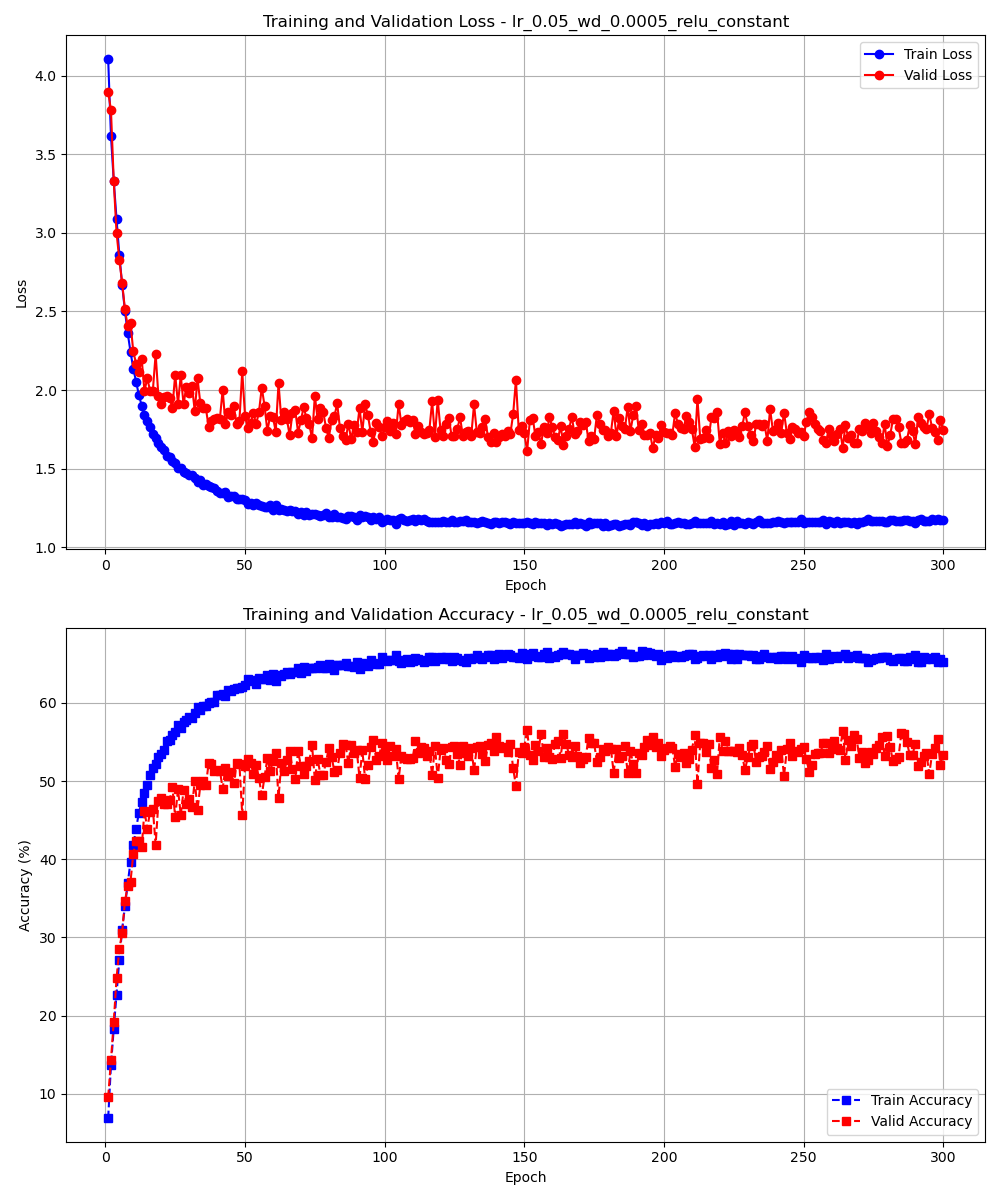
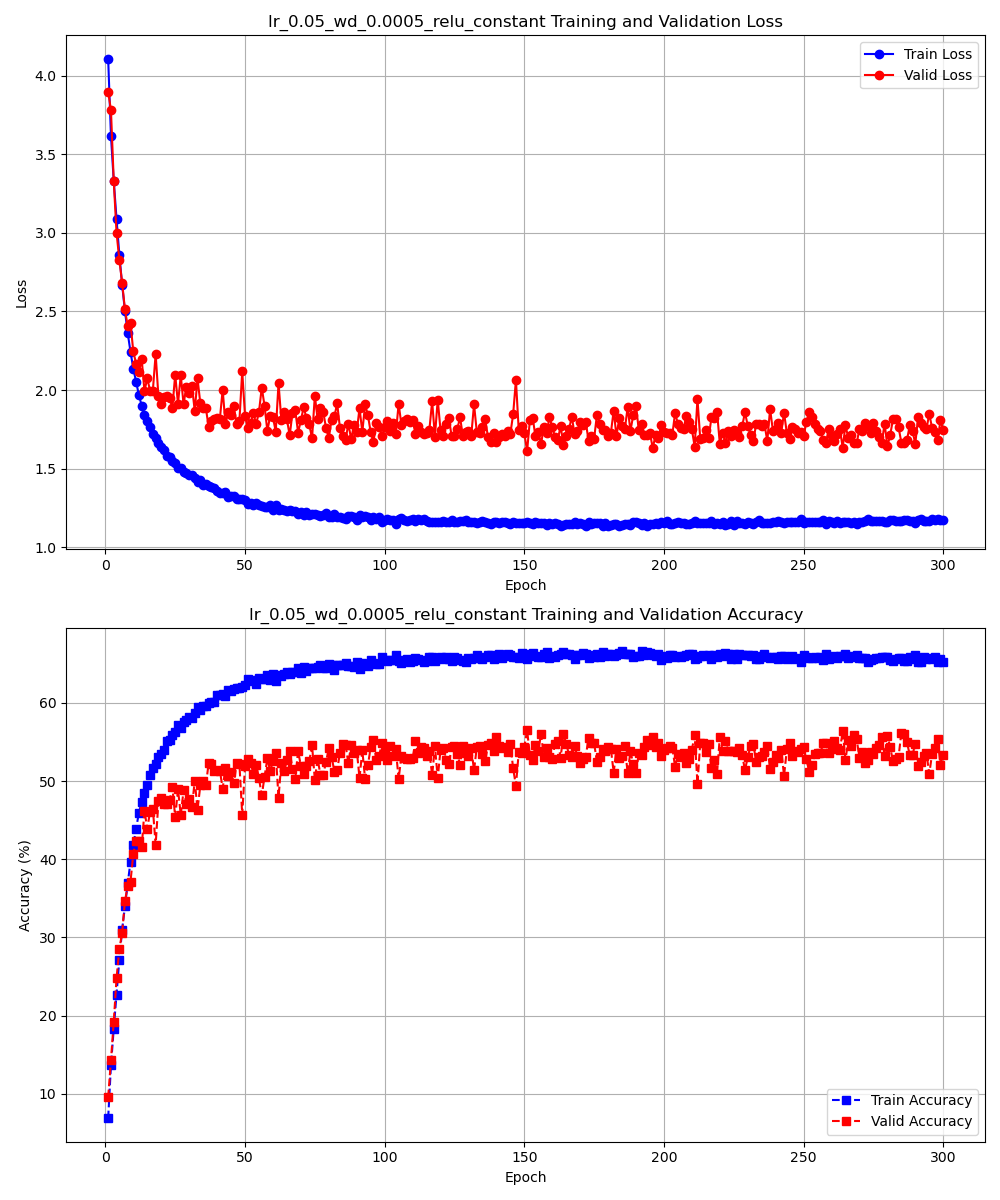
add combined graph

Changed region(s): [[0.248, 0.4933, 0.806, 0.5242], [0.279, 0.0, 0.775, 0.0308]]

diff --git a/draw.py b/draw.py
@@ -2,11 +2,15 @@ import os
 import pandas as pd
 import matplotlib.pyplot as plt
 
-# Specify the base directory where the 'output' folder is located
-base_directory = 'G:/Projects/PycharmProjects/condaProject/output'
+# Specify the relative paths from the script's location
+source_directory = 'output'
+
+# Ensure the current directory is the project root (where the script is located)
+project_root = os.path.dirname(os.path.abspath(__file__))  # Gets the directory where the script is located
+source_path = os.path.join(project_root, source_directory)
 
 # Iterate through each subdirectory in the 'output' folder
-for subdir, dirs, files in os.walk(base_directory):
+for subdir, dirs, files in os.walk(source_path):
     folder_name = os.path.basename(subdir)  # Extract the folder name
     for file in files:
         # Check if the file is a CSV file
@@ -16,13 +20,13 @@ for subdir, dirs, files in os.walk(base_directory):
             # Load the CSV data
             data = pd.read_csv(filepath)
 
-            # Create the combined graph with both metrics
+            # Create the combined graph with both metrics in two separate plots
             fig, (ax1, ax2) = plt.subplots(nrows=2, ncols=1, figsize=(10, 12))
             ax1.plot(data['Epoch'], data['Train Loss'], label='Train Loss', marker='o', color='blue')
             ax1.plot(data['Epoch'], data['Valid Loss'], label='Valid Loss', marker='o', color='red')
             ax1.set_xlabel('Epoch')
             ax1.set_ylabel('Loss')
-            ax1.set_title(f'Training and Validation Loss - {folder_name}')
+            ax1.set_title(f'{folder_name} Training and Validation Loss')
             ax1.legend(loc='upper right')
             ax1.grid(True)
 
@@ -32,7 +36,7 @@ for subdir, dirs, files in os.walk(base_directory):
                      color='red')
             ax2.set_xlabel('Epoch')
             ax2.set_ylabel('Accuracy (%)')
-            ax2.set_title(f'Training and Validation Accuracy - {folder_name}')
+            ax2.set_title(f'{folder_name} Training and Validation Accuracy')
             ax2.legend(loc='lower right')
             ax2.grid(True)
             combined_filename = os.path.join(subdir, f'{folder_name}_graph.png')
@@ -40,30 +44,24 @@ for subdir, dirs, files in os.walk(base_directory):
             plt.savefig(combined_filename)
             plt.close()
 
-            # Create and save the Loss plot separately
-            plt.figure(figsize=(10, 6))
-            plt.plot(data['Epoch'], data['Train Loss'], label='Train Loss', marker='o', color='blue')
-            plt.plot(data['Epoch'], data['Valid Loss'], label='Valid Loss', marker='o', color='red')
-            plt.xlabel('Epoch')
-            plt.ylabel('Loss')
-            plt.title(f'Training and Validation Loss - {folder_name}')
-            plt.legend(loc='upper right')
-            plt.grid(True)
-            loss_filename = os.path.join(subdir, f'{folder_name}_loss_graph.png')
-            plt.savefig(loss_filename)
-            plt.close()
+            # Create the single combined graph for both loss and accuracy
+            fig, ax = plt.subplots(figsize=(10, 6))
+            ax.plot(data['Epoch'], data['Train Loss'], label='Train Loss', color='blue', marker='o')
+            ax.plot(data['Epoch'], data['Valid Loss'], label='Valid Loss', color='red', marker='o')
+            ax.set_xlabel('Epoch')
+            ax.set_ylabel('Loss', color='blue')
+            ax.tick_params(axis='y', labelcolor='blue')
 
-            # Create and save the Accuracy plot separately
-            plt.figure(figsize=(10, 6))
-            plt.plot(data['Epoch'], data['Train Accuracy'], label='Train Accuracy', marker='s', linestyle='--',
-                     color='blue')
-            plt.plot(data['Epoch'], data['Valid Accuracy'], label='Valid Accuracy', marker='s', linestyle='--',
-                     color='red')
-            plt.xlabel('Epoch')
-            plt.ylabel('Accuracy (%)')
-            plt.title(f'Training and Validation Accuracy - {folder_name}')
-            plt.legend(loc='lower right')
-            plt.grid(True)
-            accuracy_filename = os.path.join(subdir, f'{folder_name}_accuracy_graph.png')
-            plt.savefig(accuracy_filename)
+            ax2 = ax.twinx()
+            ax2.plot(data['Epoch'], data['Train Accuracy'], label='Train Accuracy', color='green', linestyle='--',
+                     marker='s')
+            ax2.plot(data['Epoch'], data['Valid Accuracy'], label='Valid Accuracy', color='purple', linestyle='--',
+                     marker='s')
+            ax2.set_ylabel('Accuracy (%)', color='green')
+            ax2.tick_params(axis='y', labelcolor='green')
+
+            plt.title(f'{folder_name} Combined Loss and Accuracy')
+            fig.legend(loc='upper right', bbox_to_anchor=(1, 1), bbox_transform=ax.transAxes)
+            combined_loss_accuracy_filename = os.path.join(subdir, f'{folder_name}_combined_loss_accuracy.png')
+            plt.savefig(combined_loss_accuracy_filename)
             plt.close()
